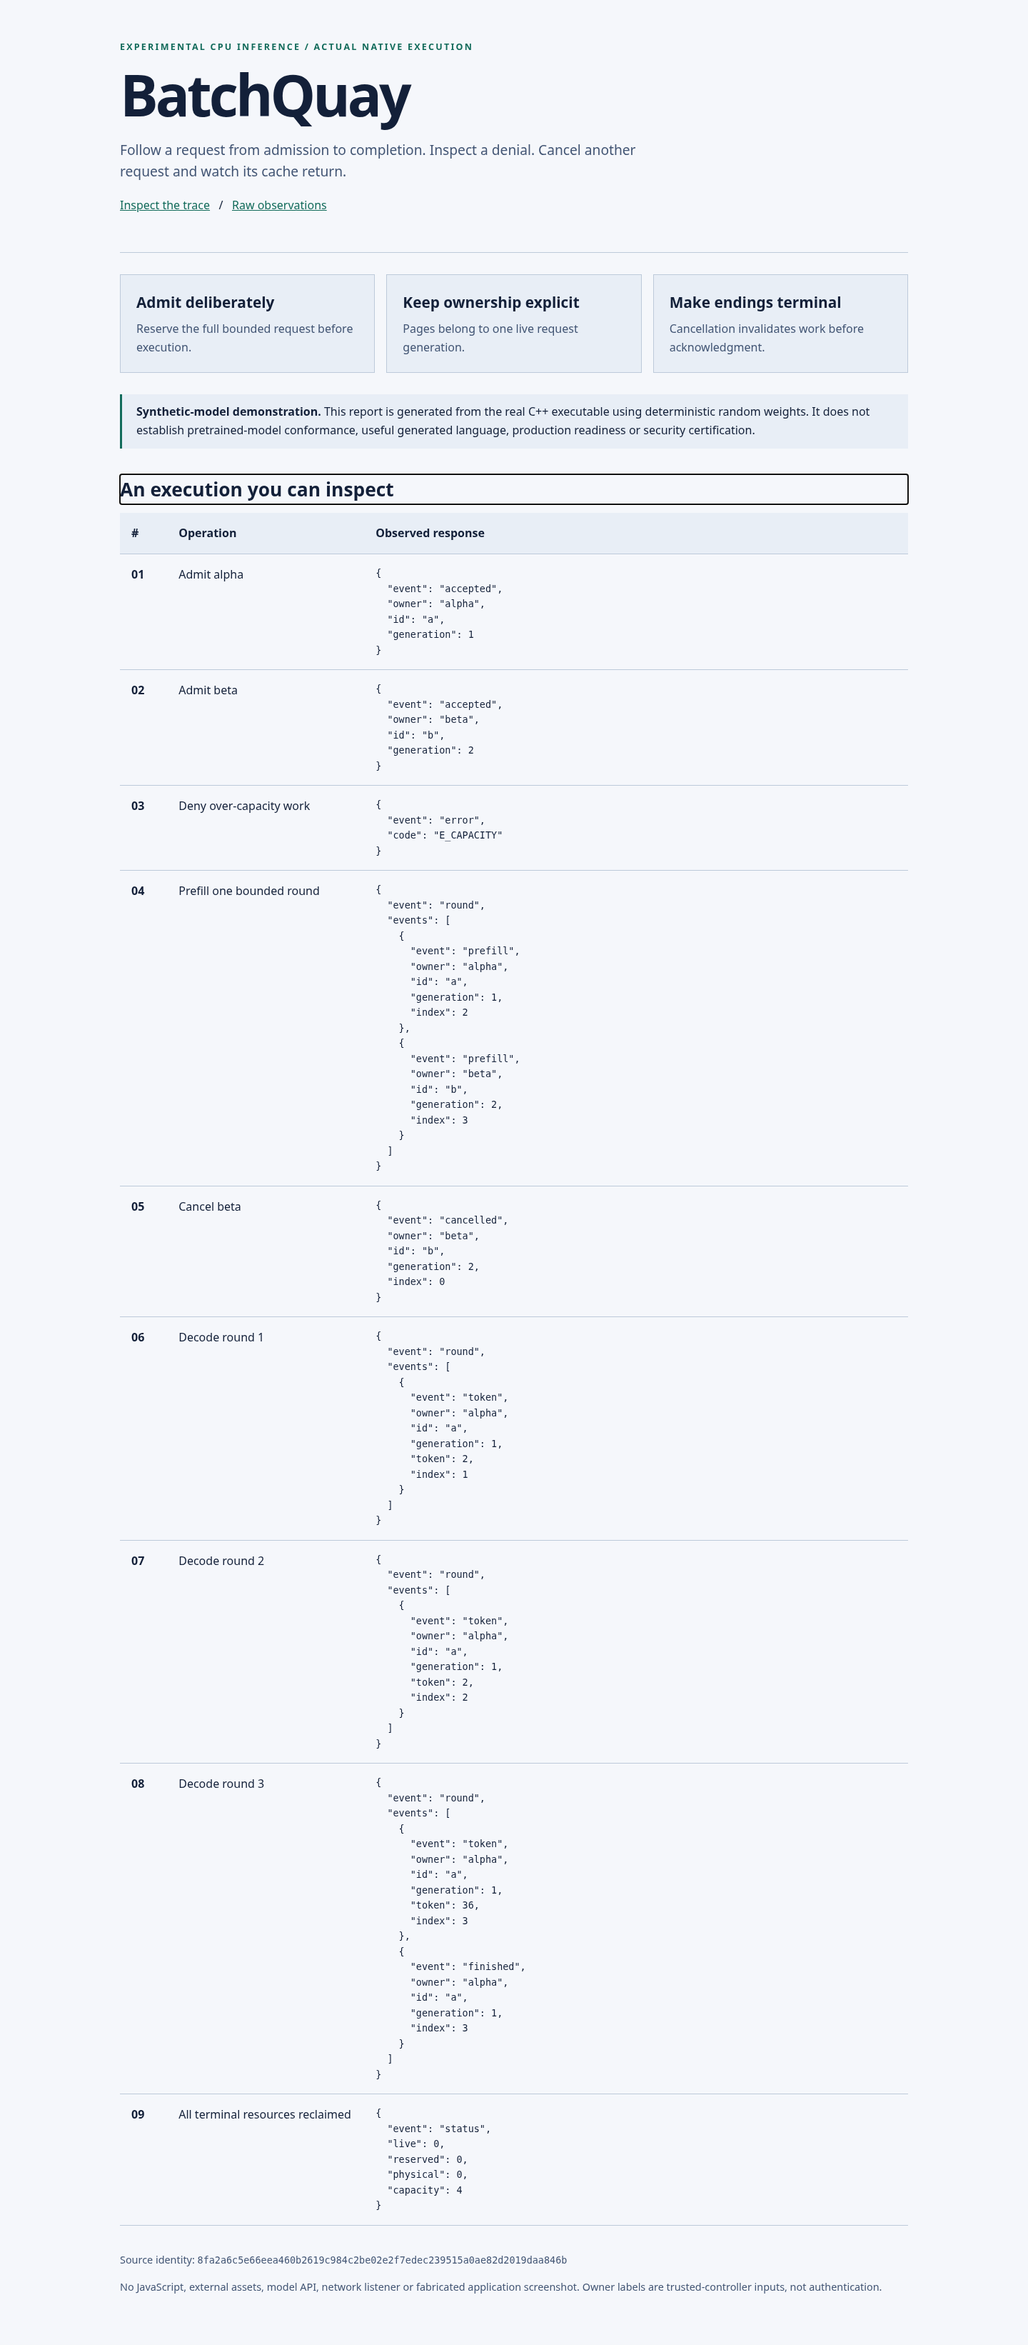
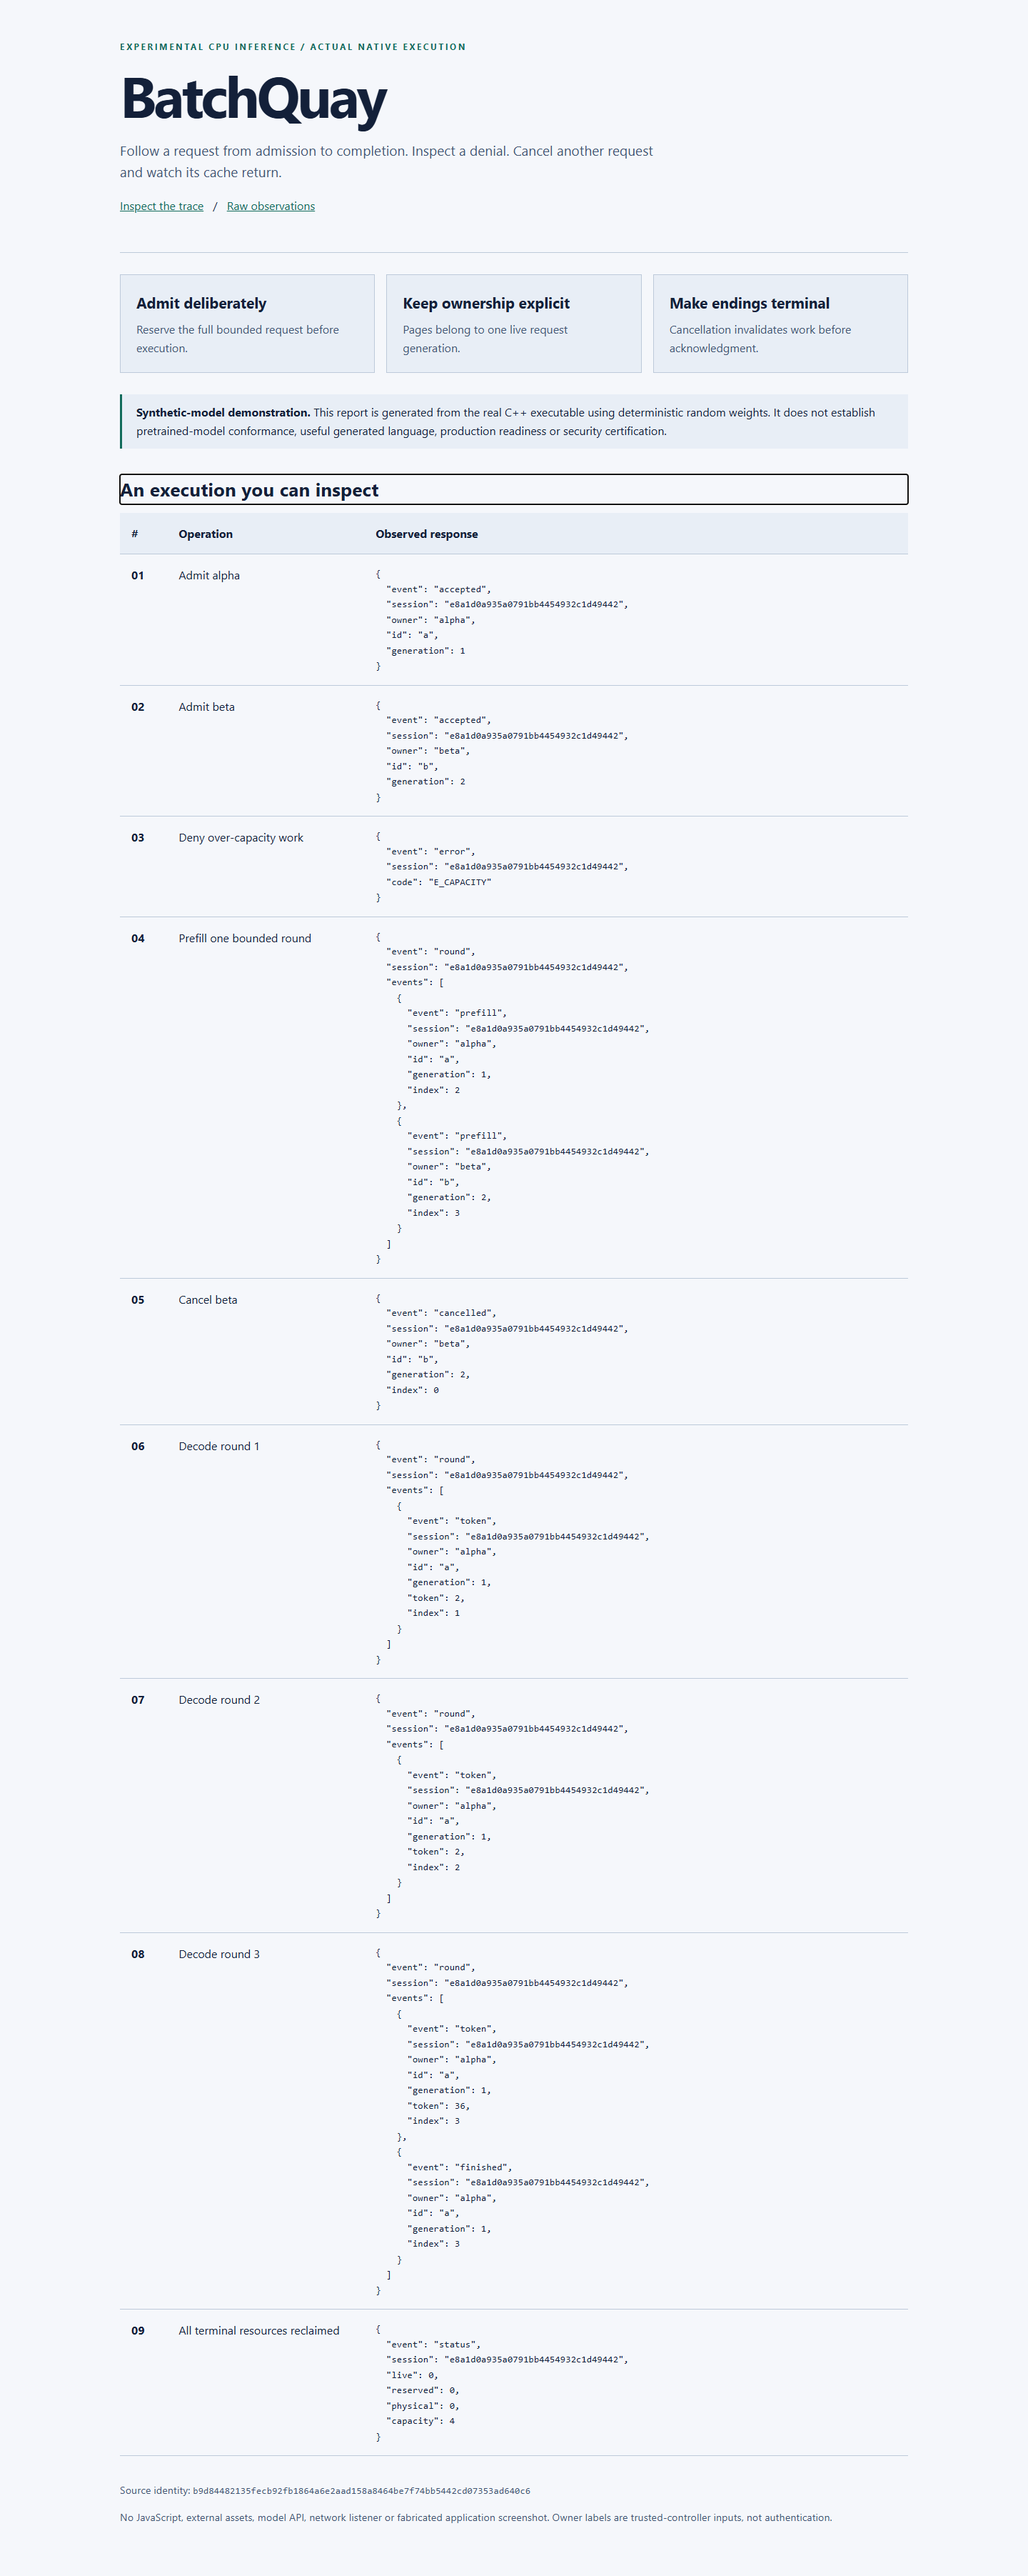
Bind browser review to the exact generated inspector

diff --git a/docs/demo/report.html b/docs/demo/report.html
@@ -27,22 +27,27 @@ footer{margin-top:36px;color:var(--muted);font-size:.9rem}.skip{position:absolut
 <p class="notice"><strong>Synthetic-model demonstration.</strong> This report is generated from the real C++ executable using deterministic random weights. It does not establish pretrained-model conformance, useful generated language, production readiness or security certification.</p>
 <h2 id="trace" tabindex="-1">An execution you can inspect</h2><table><thead><tr><th scope="col">#</th><th scope="col">Operation</th><th scope="col">Observed response</th></tr></thead><tbody><tr><th scope="row">01</th><td>Admit alpha</td><td><pre>{
   &quot;event&quot;: &quot;accepted&quot;,
+  &quot;session&quot;: &quot;e8a1d0a935a0791bb4454932c1d49442&quot;,
   &quot;owner&quot;: &quot;alpha&quot;,
   &quot;id&quot;: &quot;a&quot;,
   &quot;generation&quot;: 1
 }</pre></td></tr><tr><th scope="row">02</th><td>Admit beta</td><td><pre>{
   &quot;event&quot;: &quot;accepted&quot;,
+  &quot;session&quot;: &quot;e8a1d0a935a0791bb4454932c1d49442&quot;,
   &quot;owner&quot;: &quot;beta&quot;,
   &quot;id&quot;: &quot;b&quot;,
   &quot;generation&quot;: 2
 }</pre></td></tr><tr><th scope="row">03</th><td>Deny over-capacity work</td><td><pre>{
   &quot;event&quot;: &quot;error&quot;,
+  &quot;session&quot;: &quot;e8a1d0a935a0791bb4454932c1d49442&quot;,
   &quot;code&quot;: &quot;E_CAPACITY&quot;
 }</pre></td></tr><tr><th scope="row">04</th><td>Prefill one bounded round</td><td><pre>{
   &quot;event&quot;: &quot;round&quot;,
+  &quot;session&quot;: &quot;e8a1d0a935a0791bb4454932c1d49442&quot;,
   &quot;events&quot;: [
     {
       &quot;event&quot;: &quot;prefill&quot;,
+      &quot;session&quot;: &quot;e8a1d0a935a0791bb4454932c1d49442&quot;,
       &quot;owner&quot;: &quot;alpha&quot;,
       &quot;id&quot;: &quot;a&quot;,
       &quot;generation&quot;: 1,
@@ -50,6 +55,7 @@ footer{margin-top:36px;color:var(--muted);font-size:.9rem}.skip{position:absolut
     },
     {
       &quot;event&quot;: &quot;prefill&quot;,
+      &quot;session&quot;: &quot;e8a1d0a935a0791bb4454932c1d49442&quot;,
       &quot;owner&quot;: &quot;beta&quot;,
       &quot;id&quot;: &quot;b&quot;,
       &quot;generation&quot;: 2,
@@ -58,15 +64,18 @@ footer{margin-top:36px;color:var(--muted);font-size:.9rem}.skip{position:absolut
   ]
 }</pre></td></tr><tr><th scope="row">05</th><td>Cancel beta</td><td><pre>{
   &quot;event&quot;: &quot;cancelled&quot;,
+  &quot;session&quot;: &quot;e8a1d0a935a0791bb4454932c1d49442&quot;,
   &quot;owner&quot;: &quot;beta&quot;,
   &quot;id&quot;: &quot;b&quot;,
   &quot;generation&quot;: 2,
   &quot;index&quot;: 0
 }</pre></td></tr><tr><th scope="row">06</th><td>Decode round 1</td><td><pre>{
   &quot;event&quot;: &quot;round&quot;,
+  &quot;session&quot;: &quot;e8a1d0a935a0791bb4454932c1d49442&quot;,
   &quot;events&quot;: [
     {
       &quot;event&quot;: &quot;token&quot;,
+      &quot;session&quot;: &quot;e8a1d0a935a0791bb4454932c1d49442&quot;,
       &quot;owner&quot;: &quot;alpha&quot;,
       &quot;id&quot;: &quot;a&quot;,
       &quot;generation&quot;: 1,
@@ -76,9 +85,11 @@ footer{margin-top:36px;color:var(--muted);font-size:.9rem}.skip{position:absolut
   ]
 }</pre></td></tr><tr><th scope="row">07</th><td>Decode round 2</td><td><pre>{
   &quot;event&quot;: &quot;round&quot;,
+  &quot;session&quot;: &quot;e8a1d0a935a0791bb4454932c1d49442&quot;,
   &quot;events&quot;: [
     {
       &quot;event&quot;: &quot;token&quot;,
+      &quot;session&quot;: &quot;e8a1d0a935a0791bb4454932c1d49442&quot;,
       &quot;owner&quot;: &quot;alpha&quot;,
       &quot;id&quot;: &quot;a&quot;,
       &quot;generation&quot;: 1,
@@ -88,9 +99,11 @@ footer{margin-top:36px;color:var(--muted);font-size:.9rem}.skip{position:absolut
   ]
 }</pre></td></tr><tr><th scope="row">08</th><td>Decode round 3</td><td><pre>{
   &quot;event&quot;: &quot;round&quot;,
+  &quot;session&quot;: &quot;e8a1d0a935a0791bb4454932c1d49442&quot;,
   &quot;events&quot;: [
     {
       &quot;event&quot;: &quot;token&quot;,
+      &quot;session&quot;: &quot;e8a1d0a935a0791bb4454932c1d49442&quot;,
       &quot;owner&quot;: &quot;alpha&quot;,
       &quot;id&quot;: &quot;a&quot;,
       &quot;generation&quot;: 1,
@@ -99,6 +112,7 @@ footer{margin-top:36px;color:var(--muted);font-size:.9rem}.skip{position:absolut
     },
     {
       &quot;event&quot;: &quot;finished&quot;,
+      &quot;session&quot;: &quot;e8a1d0a935a0791bb4454932c1d49442&quot;,
       &quot;owner&quot;: &quot;alpha&quot;,
       &quot;id&quot;: &quot;a&quot;,
       &quot;generation&quot;: 1,
@@ -107,9 +121,10 @@ footer{margin-top:36px;color:var(--muted);font-size:.9rem}.skip{position:absolut
   ]
 }</pre></td></tr><tr><th scope="row">09</th><td>All terminal resources reclaimed</td><td><pre>{
   &quot;event&quot;: &quot;status&quot;,
+  &quot;session&quot;: &quot;e8a1d0a935a0791bb4454932c1d49442&quot;,
   &quot;live&quot;: 0,
   &quot;reserved&quot;: 0,
   &quot;physical&quot;: 0,
   &quot;capacity&quot;: 4
 }</pre></td></tr></tbody></table><footer>
-<p>Source identity: <code>8fa2a6c5e66eea460b2619c984c2be02e2f7edec239515a0ae82d2019daa846b</code></p><p>No JavaScript, external assets, model API, network listener or fabricated application screenshot. Owner labels are trusted-controller inputs, not authentication.</p></footer></main></body></html>
+<p>Source identity: <code>b9d84482135fecb92fb1864a6e2aad158a8464be7f74bb5442cd07353ad640c6</code></p><p>No JavaScript, external assets, model API, network listener or fabricated application screenshot. Owner labels are trusted-controller inputs, not authentication.</p></footer></main></body></html>

diff --git a/tools/browser_check.py b/tools/browser_check.py
@@ -2,7 +2,9 @@
 from __future__ import annotations
 import argparse
 import json
+import hashlib
 from pathlib import Path
+from scripts.evidence import identity, manifest
 
 
 def main() -> None:
@@ -10,12 +12,16 @@ def main() -> None:
     p=argparse.ArgumentParser();p.add_argument('--directory',type=Path,default=Path('.local-runs/demo'))
     p.add_argument('--executable',default='/usr/bin/chromium');args=p.parse_args()
     content=(args.directory/'report.html').read_text()
+    trace=json.loads((args.directory/'trace.json').read_bytes())
+    source=identity(manifest())
+    if trace.get('source_sha256')!=source: raise AssertionError('report trace is not current source')
     rows=[]
     with sync_playwright() as engine:
         browser=engine.chromium.launch(executable_path=args.executable,headless=True,chromium_sandbox=True)
         for name,width in [('desktop',1440),('mobile',390)]:
             page=browser.new_page(viewport={'width':width,'height':900})
             page.set_content(content,wait_until='load')
+            if page.locator('footer code').inner_text()!=source: raise AssertionError('rendered report source differs')
             overflow=page.evaluate('document.documentElement.scrollWidth > innerWidth')
             if overflow: raise AssertionError('horizontal overflow')
             if page.locator('script,iframe,object,embed').count(): raise AssertionError('active embedded content')
@@ -27,7 +33,9 @@ def main() -> None:
             rows.append(dict(view=name,width=width,horizontal_overflow=overflow,first_focus=focused))
             page.close()
         browser.close()
-    report=dict(status='PASS',mode='Actual sandbox-enabled headless browser; owned HTML loaded through set_content. DOM/layout/keyboard and screenshots tested; file-URL and externally hosted navigation not tested.',views=rows)
+    report=dict(status='PASS',source_sha256=source,
+        html_sha256=hashlib.sha256((args.directory/'report.html').read_bytes()).hexdigest(),
+        mode='Actual sandbox-enabled headless browser; owned HTML loaded through set_content. DOM/layout/keyboard and screenshots tested; file-URL and externally hosted navigation not tested.',views=rows)
     (args.directory/'browser-review.json').write_bytes((json.dumps(report,indent=2)+'\n').encode('utf-8'))
     print(json.dumps(report,indent=2))
 

diff --git a/scripts/release_verify.py b/scripts/release_verify.py
@@ -312,6 +312,10 @@ def _validate_trace(views: list[ReceiptView], source_sha256: str) -> None:
     browser = _artifact_json(_view_for_label(views, "browser-result"), "browser-result")
     if not isinstance(browser, dict) or browser.get("status") != "PASS" or "keyboard" not in str(browser.get("mode", "")).lower():
         raise ValueError("real browser keyboard result missing")
+    report_path = core.artifacts.get('demo-report')
+    if (report_path is None or browser.get('source_sha256') != source_sha256
+        or browser.get('html_sha256') != _sha(report_path.read_bytes())):
+        raise ValueError('browser did not inspect this exact current-source report')
     view_rows = browser.get("views")
     if not isinstance(view_rows, list):
         raise ValueError("browser view results missing")

diff --git a/docs/demo/README.md b/docs/demo/README.md
@@ -1,6 +1,7 @@
 # Actual local demonstration
-Run `make demo` and open `.local-runs/demo/report.html`. The recorded `report.html` and screenshots in this directory are from the real native child process with deterministic tiny synthetic weights.
 
-30 seconds: locate accepted request, capacity denial, cancelled request and final zero resource counters. Two minutes: follow prefill and decode rounds; notice that cancellation stops future output. Five minutes: rerun an isolated request and an interleaved request, compare outputs, inspect page ownership tests and a selected negative control. No model API is involved.
+Run `make demo` and open `.local-runs/demo/report.html`. The report, raw trace and screenshots here were regenerated from the actual native child process with deterministic synthetic weights. They are a recorded example, not useful generated language or a live inference service.
 
-Optional browser check: `python3 -m tools.browser_check`. The author environment restricts filesystem navigation; its browser QA loads the generated HTML via `set_content`, records this limitation, checks keyboard entry and mobile/desktop overflow, and captures the actual rendered output. It is not a hosted navigation or full accessibility certification.
+Follow admission, capacity denial, cancellation, decode rounds and the final zero resource counters. The source identity is embedded in the trace and rendered footer. Cancellation stops later output for that request generation.
+
+The recorded browser check used sandbox-enabled Chrome on Windows, loading the owned HTML via `set_content`; desktop/mobile layout, keyboard entry, exact source identity and screenshots passed. It did not test a hosted URL or certify full accessibility. The separate interactive browser inspection used a temporary loopback static-file server. Browser-test dependencies are isolated and hash-locked in requirements-browser.lock.
